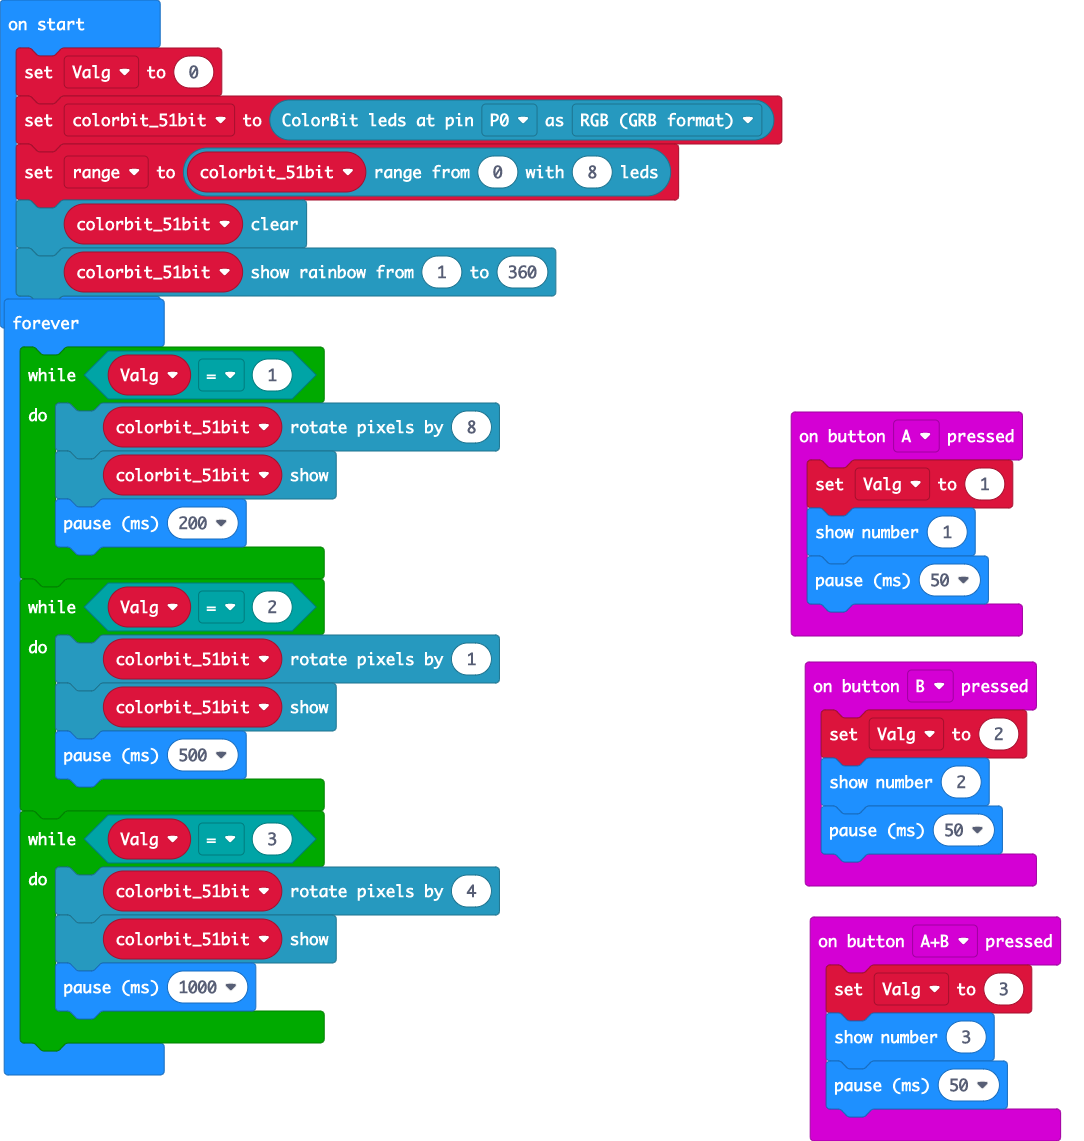
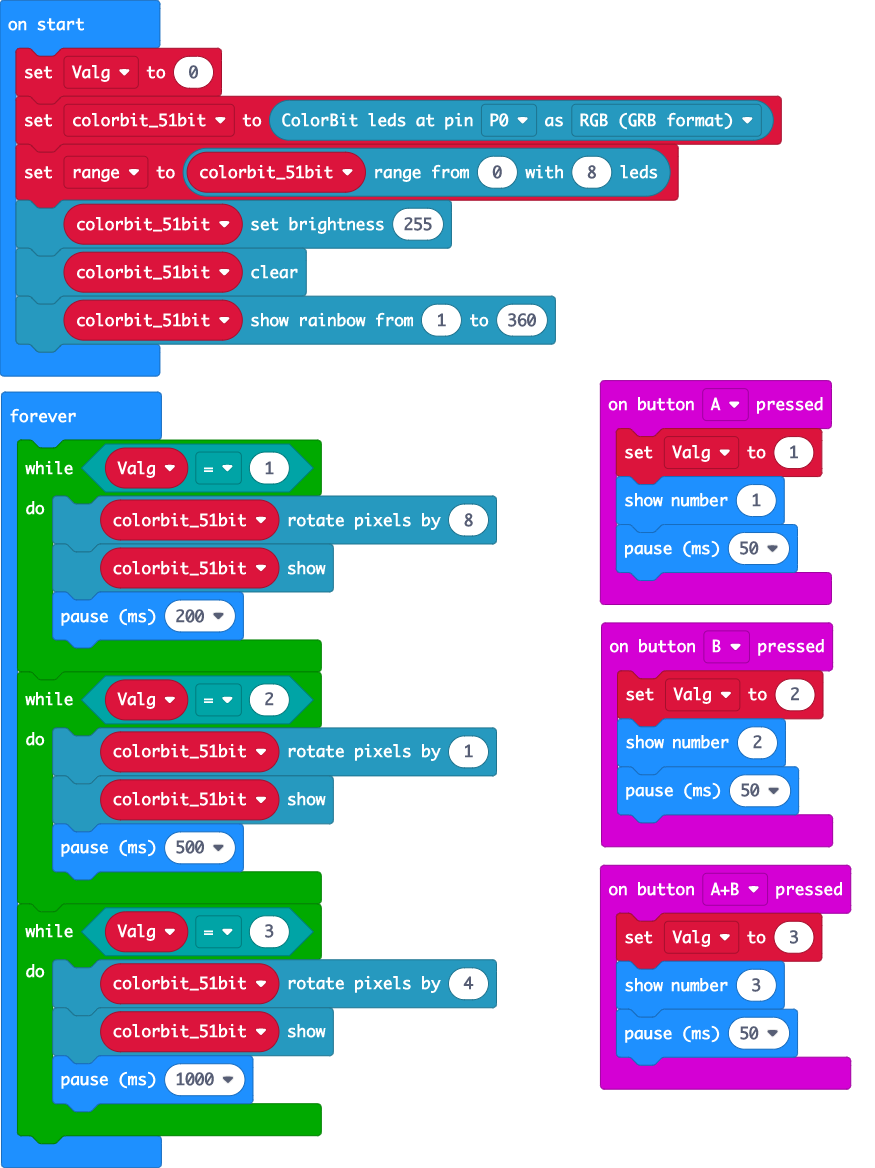
Update main.blocks, main.ts

diff --git a/main.ts b/main.ts
@@ -17,6 +17,7 @@ let Valg = 0
 Valg = 0
 let colorbit_51bit = colorbit.initColorBit(DigitalPin.P0, BitColorMode.RGB)
 let range = colorbit_51bit.range(0, 8)
+colorbit_51bit.setBrightness(255)
 colorbit_51bit.clear()
 colorbit_51bit.showRainbow(1, 360)
 basic.forever(function () {
